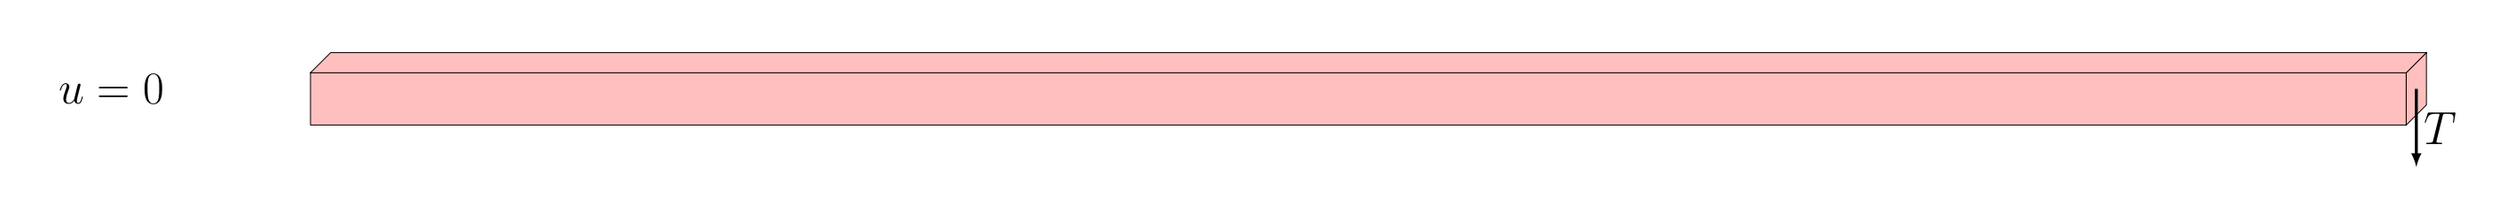
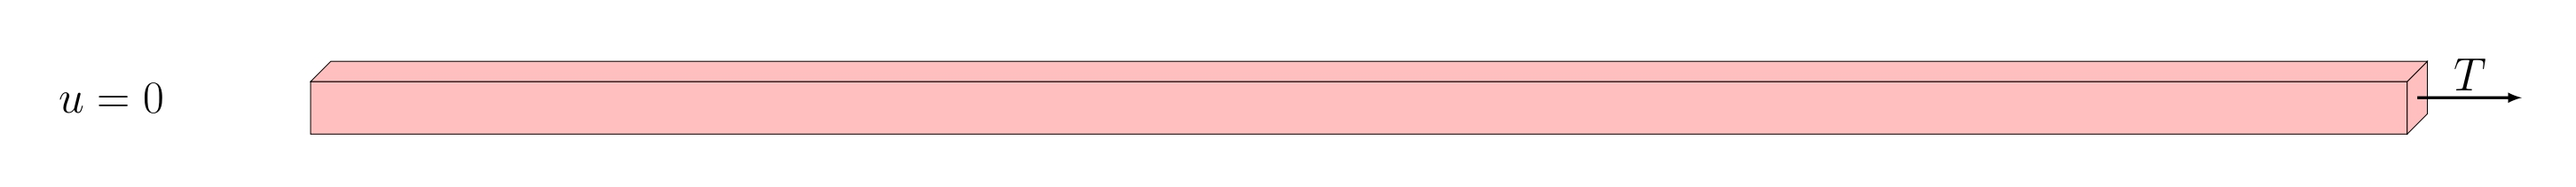
update

diff --git a/Elastic_Updated_Lagrange_Beam/Elastic_updated_Lagrange_beam.py b/Elastic_Updated_Lagrange_Beam/Elastic_updated_Lagrange_beam.py
@@ -104,7 +104,7 @@ u_export.x.scatter_forward()
 # 
 # Evaluation of the displacement on the edge
 Nx                = dolfinx.fem.Constant(domain, numpy.asarray((1.0,0.0,0.0)))
-Displacement_expr = dolfinx.fem.form((ufl.dot(u,Nx))*ds(3))
+Displacement_expr = dolfinx.fem.form((ufl.dot(u,Nx))*ds(2))
 # 
 #----------------------------------------------------------------------
 # Definition of dirichlet boundary conditions
@@ -217,6 +217,8 @@ for n in range(1, 10):
     # 
     u_n.x.array[:]+=u.x.array[:]
     u_n.x.scatter_forward()
+    u_export.interpolate(u_expr)
+    u_export.x.scatter_forward()
     du_update.interpolate(u)
     du_update.x.scatter_forward()
     # Evaluate the displacement

diff --git a/Elastic_Updated_Lagrange_Beam/README.md b/Elastic_Updated_Lagrange_Beam/README.md
@@ -127,6 +127,8 @@ P2_v = basix.ufl.element("P", domain.topology.cell_name(), degree=2, shape=(doma
 # Function_spaces
 P1v_space = dolfinx.fem.functionspace(domain, P1_v)
 V         = dolfinx.fem.functionspace(domain, P2_v)
+# 
+updated_mesh_space = dolfinx.fem.functionspace(domain, domain.ufl_domain().ufl_coordinate_element())
 ```
 
 The mathematical spaces being defined, one can introduce the functions, expressions for interpolation, test functions and trial functions. It is recommended to place them all at a same position for debugging.
@@ -134,10 +136,15 @@ The mathematical spaces being defined, one can introduce the functions, expressi
 ```python3
 v  = ufl.TestFunction(V)
 u  = dolfinx.fem.Function(V)
+# Previous displacement
+u_n  = dolfinx.fem.Function(V)
 du = ufl.TrialFunction(V)
+# 
+du_update     = dolfinx.fem.Function(updated_mesh_space)
+# 
 u_export      = dolfinx.fem.Function(P1v_space)
 u_export.name = "u"
-u_expr        = dolfinx.fem.Expression(u,P1v_space.element.interpolation_points())
+u_expr   = dolfinx.fem.Expression(u_n,P1v_space.element.interpolation_points())
 u_export.interpolate(u_expr)
 u_export.x.scatter_forward()
 ```
@@ -154,8 +161,8 @@ dx       = ufl.Measure("dx", domain=domain, metadata=metadata)
 To evaluate a reaction force or a displacement over a surface, a form can be used such that:
 ```python3
 # Evaluation of the displacement on the edge
-Nz                = dolfinx.fem.Constant(domain, numpy.asarray((0.0,0.0,1.0)))
-Displacement_expr = dolfinx.fem.form((ufl.dot(u,Nz))*ds(2))
+Nx                = dolfinx.fem.Constant(domain, numpy.asarray((1.0,0.0,0.0)))
+Displacement_expr = dolfinx.fem.form((ufl.dot(u,Nx))*ds(2))
 ```
 is equivalent to:
 ```math
@@ -191,7 +198,7 @@ where B stands for the body forces, T the traction forces, u is the unknown and 
 This is traduced in FEniCSx with:
 
 ```python
-F   = ufl.inner(ufl.grad(v), Hookean(mu_m,lmbda_m)) * dx - ufl.inner(v, B) * dx - ufl.inner(v, T) * ds(2)
+F   = ufl.inner(ufl.grad(v), Hookean(mu_m,lmbda_m,u_n+u)) * dx - ufl.inner(v, B) * dx - ufl.inner(v, T) * ds(2)
 ```
 The Jacobian of the problem can further be defined with:
 
@@ -242,7 +249,7 @@ if log_solve:
 #----------------------------------------------------------------------
 ```
 
-For stability concerns, we increment the load to reach the solution:
+For stability concerns, we increment the load to reach the solution and the mesh is updated (updated lagrangian) between two load steps:
 
 ```python
 # Load increment
@@ -261,15 +268,20 @@ for n in range(1, 10):
             print("*************") 
         break
     # 
+    u_n.x.array[:]+=u.x.array[:]
+    u_n.x.scatter_forward()
     u_export.interpolate(u_expr)
     u_export.x.scatter_forward()
+    du_update.interpolate(u)
+    du_update.x.scatter_forward()
     # Evaluate the displacement
     displacement_      = dolfinx.fem.assemble_scalar(Displacement_expr)
     Surface            = 1*1
     displacement_right = 1/Surface*domain.comm.allreduce(displacement_, op=mpi4py.MPI.SUM)
-    print("Edge displacement:", displacement_right)
+    print("Edge displacement increment:", displacement_right)
     # 
     print(f"Time step {n}, Number of iterations {num_its}, Load {T.value}")
     xdmf.write_function(u_export,n*tval0)
+    domain.geometry.x[:, :domain.geometry.dim] += du_update.x.array.reshape((-1, domain.geometry.dim))
 xdmf.close()
 ```
